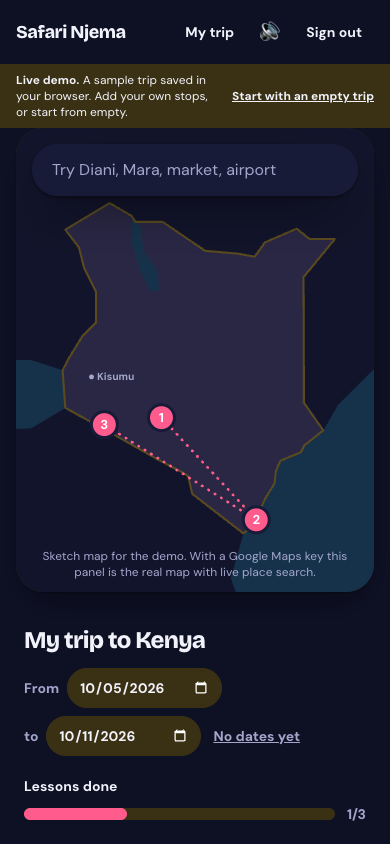
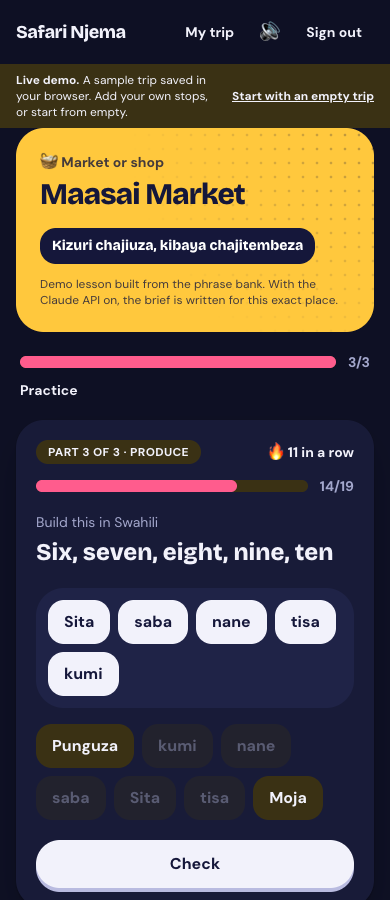
Say plainly that the full product uses Google Maps and the Claude API, and where that code is

diff --git a/src/features/landing/FullVersionSection.tsx b/src/features/landing/FullVersionSection.tsx
@@ -1,0 +1,51 @@
+// Says plainly what the demo stands in for: Google Maps for the map and search, and the Claude API for writing lessons.
+// Exists so nobody takes the sketch map and template lessons for the whole design. Both integrations are in the repository.
+import { Card } from '../../components/Card'
+
+const ROWS = [
+  {
+    part: 'Map and search',
+    demo: 'A sketch of Kenya and a built-in list of 21 places.',
+    full: 'Google Maps Platform. The Maps JavaScript API draws the map with numbered pins, and Places Autocomplete, limited to Kenya, finds any hotel, market, park or beach.',
+    code: 'TripMap.tsx, usePlaceSearch.ts',
+  },
+  {
+    part: 'Lessons',
+    demo: 'A template picks phrases from the bank and adds a general brief for that kind of place.',
+    full: 'The Claude API. It writes the brief for the exact place and chooses phrases from the bank. Its JSON is checked with zod, and the template is the fallback if anything fails.',
+    code: 'generate-lesson/claude.ts',
+  },
+  {
+    part: 'Accounts and data',
+    demo: 'One demo account, saved in your browser.',
+    full: 'Supabase. Email login, Postgres with Row Level Security on every table, and an Edge Function that keeps the API key on the server.',
+    code: 'supabase/migrations, generate-lesson/index.ts',
+  },
+]
+
+export function FullVersionSection() {
+  return (
+    <section aria-labelledby="full-title">
+      <h2 id="full-title" className="text-3xl mb-2 px-1">The demo and the full product</h2>
+      <p className="text-muted mb-5 px-1 max-w-2xl">
+        Safari Njema is designed around Google Maps and the Claude API. This public demo runs without API keys, so it costs nothing to keep online. Here is what each part stands in for.
+      </p>
+      <div className="flex flex-col gap-4">
+        {ROWS.map((row) => (
+          <Card key={row.part} className="grid md:grid-cols-[10rem_1fr_1.4fr] gap-4 md:gap-6">
+            <h3 className="text-lg">{row.part}</h3>
+            <div>
+              <p className="text-xs uppercase tracking-wide font-bold text-muted mb-1">In this demo</p>
+              <p className="text-sm leading-relaxed">{row.demo}</p>
+            </div>
+            <div>
+              <p className="text-xs uppercase tracking-wide font-bold text-accent mb-1">With the keys switched on</p>
+              <p className="text-sm leading-relaxed">{row.full}</p>
+              <p className="text-xs text-muted mt-2">In the code: {row.code}</p>
+            </div>
+          </Card>
+        ))}
+      </div>
+    </section>
+  )
+}

diff --git a/src/features/demo/SamplePlaceSearch.tsx b/src/features/demo/SamplePlaceSearch.tsx
@@ -29,6 +29,7 @@ export function SamplePlaceSearch({ onPick }: { onPick: (place: PickedPlace) => 
       {query.trim().length >= 2 && (
         <ul className="mt-2 bg-surface rounded-card shadow-lift overflow-hidden max-h-72 overflow-y-auto" role="listbox">
           {results.length === 0 && <li className="px-5 py-3 text-sm text-muted">No places found in Kenya.</li>}
+          <li className="px-5 py-2 text-xs text-muted bg-surface-2">The demo searches 21 built-in places. The full app uses Google Places search, limited to Kenya.</li>
           {results.map((place) => (
             <li key={place.googlePlaceId}>
               <button type="button" onClick={() => choose(place)} className="w-full text-left px-5 py-3 min-h-[48px] hover:bg-tint cursor-pointer flex items-center gap-3">

diff --git a/src/features/demo/DemoMap.tsx b/src/features/demo/DemoMap.tsx
@@ -88,7 +88,7 @@ export function DemoMap({ stops, preview, highlightedId, onPinClick }: DemoMapPr
         {preview && <circle cx={preview.lng} cy={-preview.lat} r="0.26" fill="var(--hero)" stroke="var(--surface)" strokeWidth="0.09" className="animate-pulse" style={{ pointerEvents: 'none' }} />}
       </svg>
       <p className="absolute bottom-3 left-4 right-4 text-xs text-muted text-center pointer-events-none">
-        Sketch map for the demo. With a Google Maps key this panel is the real map with live place search.
+        A sketch for the demo. The full app shows Google Maps here, with live search of every place in Kenya.
       </p>
     </div>
   )

diff --git a/src/features/landing/LandingScreen.tsx b/src/features/landing/LandingScreen.tsx
@@ -11,6 +11,7 @@ import { isDemoMode } from '../demo/demoMode'
 import { LessonShowcase } from './LessonShowcase'
 import { BuiltSection } from './BuiltSection'
 import { HeroMap } from './HeroMap'
+import { FullVersionSection } from './FullVersionSection'
 
 const STEPS = [
   { emoji: '🔍', title: 'Search', body: 'Find any place in Kenya on the map, from a beach to a market stall.' },
@@ -64,6 +65,7 @@ export function LandingScreen() {
         </section>
 
         <LessonShowcase />
+        <FullVersionSection />
         <BuiltSection />
         <Footer />
       </main>

diff --git a/README.md b/README.md
@@ -8,16 +8,28 @@ You add the places you are going. Each stop becomes a five minute Swahili lesson
 
 ![The landing page](docs/screenshots/landing.png)
 
-| The trip planner | A quiz round | On a phone, dark mode |
+| The trip planner | Practice | Word tiles on a phone, dark mode |
 |---|---|---|
-| ![Trip planner with a map of Kenya and three stops](docs/screenshots/trip.png) | ![Round three of a quiz, matching a pronunciation to its phrase](docs/screenshots/lesson.png) | ![The trip planner on a phone in dark mode](docs/screenshots/phone-dark.png) |
+| ![Trip planner with a map of Kenya and three stops](docs/screenshots/trip.png) | ![A practice exercise matching a pronunciation to its phrase](docs/screenshots/lesson.png) | ![Building a Swahili sentence from word tiles, on a phone in dark mode](docs/screenshots/phone-dark.png) |
+
+## The demo and the full product
+
+Safari Njema is designed around **Google Maps Platform** and the **Claude API**. The public demo runs without API keys so it costs nothing to keep online, and it stands in for them like this:
+
+| Part | In the demo | With the keys switched on | Where the code is |
+|---|---|---|---|
+| Map and search | A sketch of Kenya and 21 built-in places | Google Maps JavaScript API for the map and pins. Places Autocomplete, limited to Kenya, with session tokens and only six billed fields | `src/features/trip/TripMap.tsx`, `usePlaceSearch.ts` |
+| Lessons | A template picks phrases from the bank and adds a general brief | The Claude API writes the brief for the exact place and chooses phrases from the bank. JSON is validated with zod, retried once, then falls back to the template | `supabase/functions/generate-lesson/claude.ts` |
+| Accounts and data | One demo account in the browser | Supabase Auth, Postgres with Row Level Security, and an Edge Function that keeps the Anthropic key on the server | `supabase/migrations/`, `generate-lesson/index.ts` |
+
+The switch is automatic. With no keys the app is the demo. Add the Supabase values and it becomes the real product with accounts, add a Google Maps key and the sketch becomes Google Maps, set `LESSON_AI_ENABLED=true` with an Anthropic key and Claude writes the lessons.
 
 ## Why it is interesting
 
 - **Lessons come from a phrase bank, not free text.** Language models make mistakes in Swahili, so the model may only choose from 95 phrases, each tagged by hand. It picks and explains. It does not invent.
 - **An AI switch.** With it on, Claude writes the brief and picks phrases, and its JSON is validated with zod. With it off, a template builds the lesson from the same candidates. The live site runs with it off, so it costs nothing to host.
 - **One pipeline, two runtimes.** Scoring, the slot plan and the template are pure TypeScript. The same files run in a Supabase Edge Function and in the browser demo.
-- **Tests that read the lessons.** 52 unit tests. They assert the exact phrases for a market, a beach and a game reserve, then sweep every kind of place so the bill never shows up at an airport.
+- **Tests that read the lessons.** 60 unit tests. They assert the exact phrases for a market, a beach and a game reserve, then sweep every kind of place so the bill never shows up at an airport.
 - **Row Level Security on every table**, with a database function so users never need write access to shared tables.
 - **Written to be read.** One feature per folder, no file over 200 lines, and every file opens by saying what it does and why it exists.
 
@@ -74,7 +86,8 @@ When the Supabase values are missing, the app runs in demo mode. This is what th
 - Search a built-in list of 21 well known Kenyan places, one for every kind of place. Searching "Paris" finds nothing, like the real Kenya-only search.
 - Add a place with a day and activities. It appears as a numbered pin on a sketch map of Kenya and as a row in the itinerary, with the "Preparing your lesson" state. Stops in the same town fan out into a ring so each pin can be clicked, and picking a pin shows its name and rings its row.
 - Lessons are built in the browser by the same pure functions the Edge Function uses, from the same seed phrases. The first stop teaches greetings and later stops do not. Each lesson carries a Swahili proverb from the seeded list, the kanga idea.
-- Quizzes run four rounds: what it means, say it in Swahili, sounds like, and fill the gap. Wrong answers are drawn from the whole phrase bank, and anything missed comes back once in a second chance round. About twenty questions a lesson, and only first tries count.
+- Every lesson starts by asking how long you have: Quick (3 minutes, 4 phrases), Standard (5 minutes, 6 phrases) or Deep (10 minutes, 8 phrases). A lesson holds eight phrases in priority order, so a shorter one studies the first few. The choice is remembered.
+- Practice mixes eight kinds of exercise in three parts that get harder: recognise (meaning, true or false, match the pairs), recall (English to Swahili, sounds like), and produce (build the sentence from word tiles, fill the gap, type the answer with one typo forgiven). Wrong answers come from the whole phrase bank, a streak counter rewards runs, and anything missed comes back once in a second chance round. Only first tries count.
 - Dates are free. Trip dates can be set, changed or cleared at any time. A stop can take any date, inside the trip or not, and can be moved to another day later. The list and the pin numbers follow the dates.
 - Sound effects for taps, right and wrong answers, a new stop and a finished lesson. They are made with Web Audio, so there are no audio files, and the speaker button in the top bar mutes them for good.
 - Finish a quiz and the stop turns green and the trip's progress bar moves. "Start with an empty trip" clears the sample so the first stop flow can be tried from scratch.
@@ -142,7 +155,7 @@ Left for right after the deadline: Google sign in, the Today screen, onboarding,
 - `useStops.ts` then calls the Edge Function and waits. The list row shows "Preparing your lesson" until it returns.
 - `supabase/functions/_shared/pickCandidates.ts` scores every phrase in the bank by its tags. Greetings score high on the first stop and are dropped afterwards. Sheng is left out by default.
 - `supabase/functions/_shared/lessonPlan.ts` holds the tables: which tags matter for each kind of place, activity and region, and the six ordered slots a template lesson fills. A market is price, numbers, bargaining, numbers, shopping, bargaining. Each phrase's "why here" line comes from the slot that chose it.
-- `LessonScreen.tsx` reads the lesson JSON and loads the phrase rows it points at. `src/lib/quiz.ts` builds the four quiz rounds as a pure function. Fill the gap only ever blanks a word that is already in the bank, and takes its wrong words from the same position in other phrases.
+- `LessonScreen.tsx` reads the lesson JSON and loads the phrase rows it points at. `src/lib/quiz.ts` builds the practice as a pure function, with the multiple choice kinds in `quizChoice.ts` and the hands-on kinds in `quizProduce.ts`. Word tiles and gaps only ever use words that are already in the bank. `checkTyped.ts` marks typed answers, and `lessonLength.ts` holds the three lengths.
 - `src/lib/orderStops.ts` sorts stops by date and works out "Day 3". `src/lib/spreadPins.ts` fans out pins that would overlap. `src/lib/sounds.ts` plays the sound effects. All three are small and the first two are tested.
 
 ## Dependencies and why
